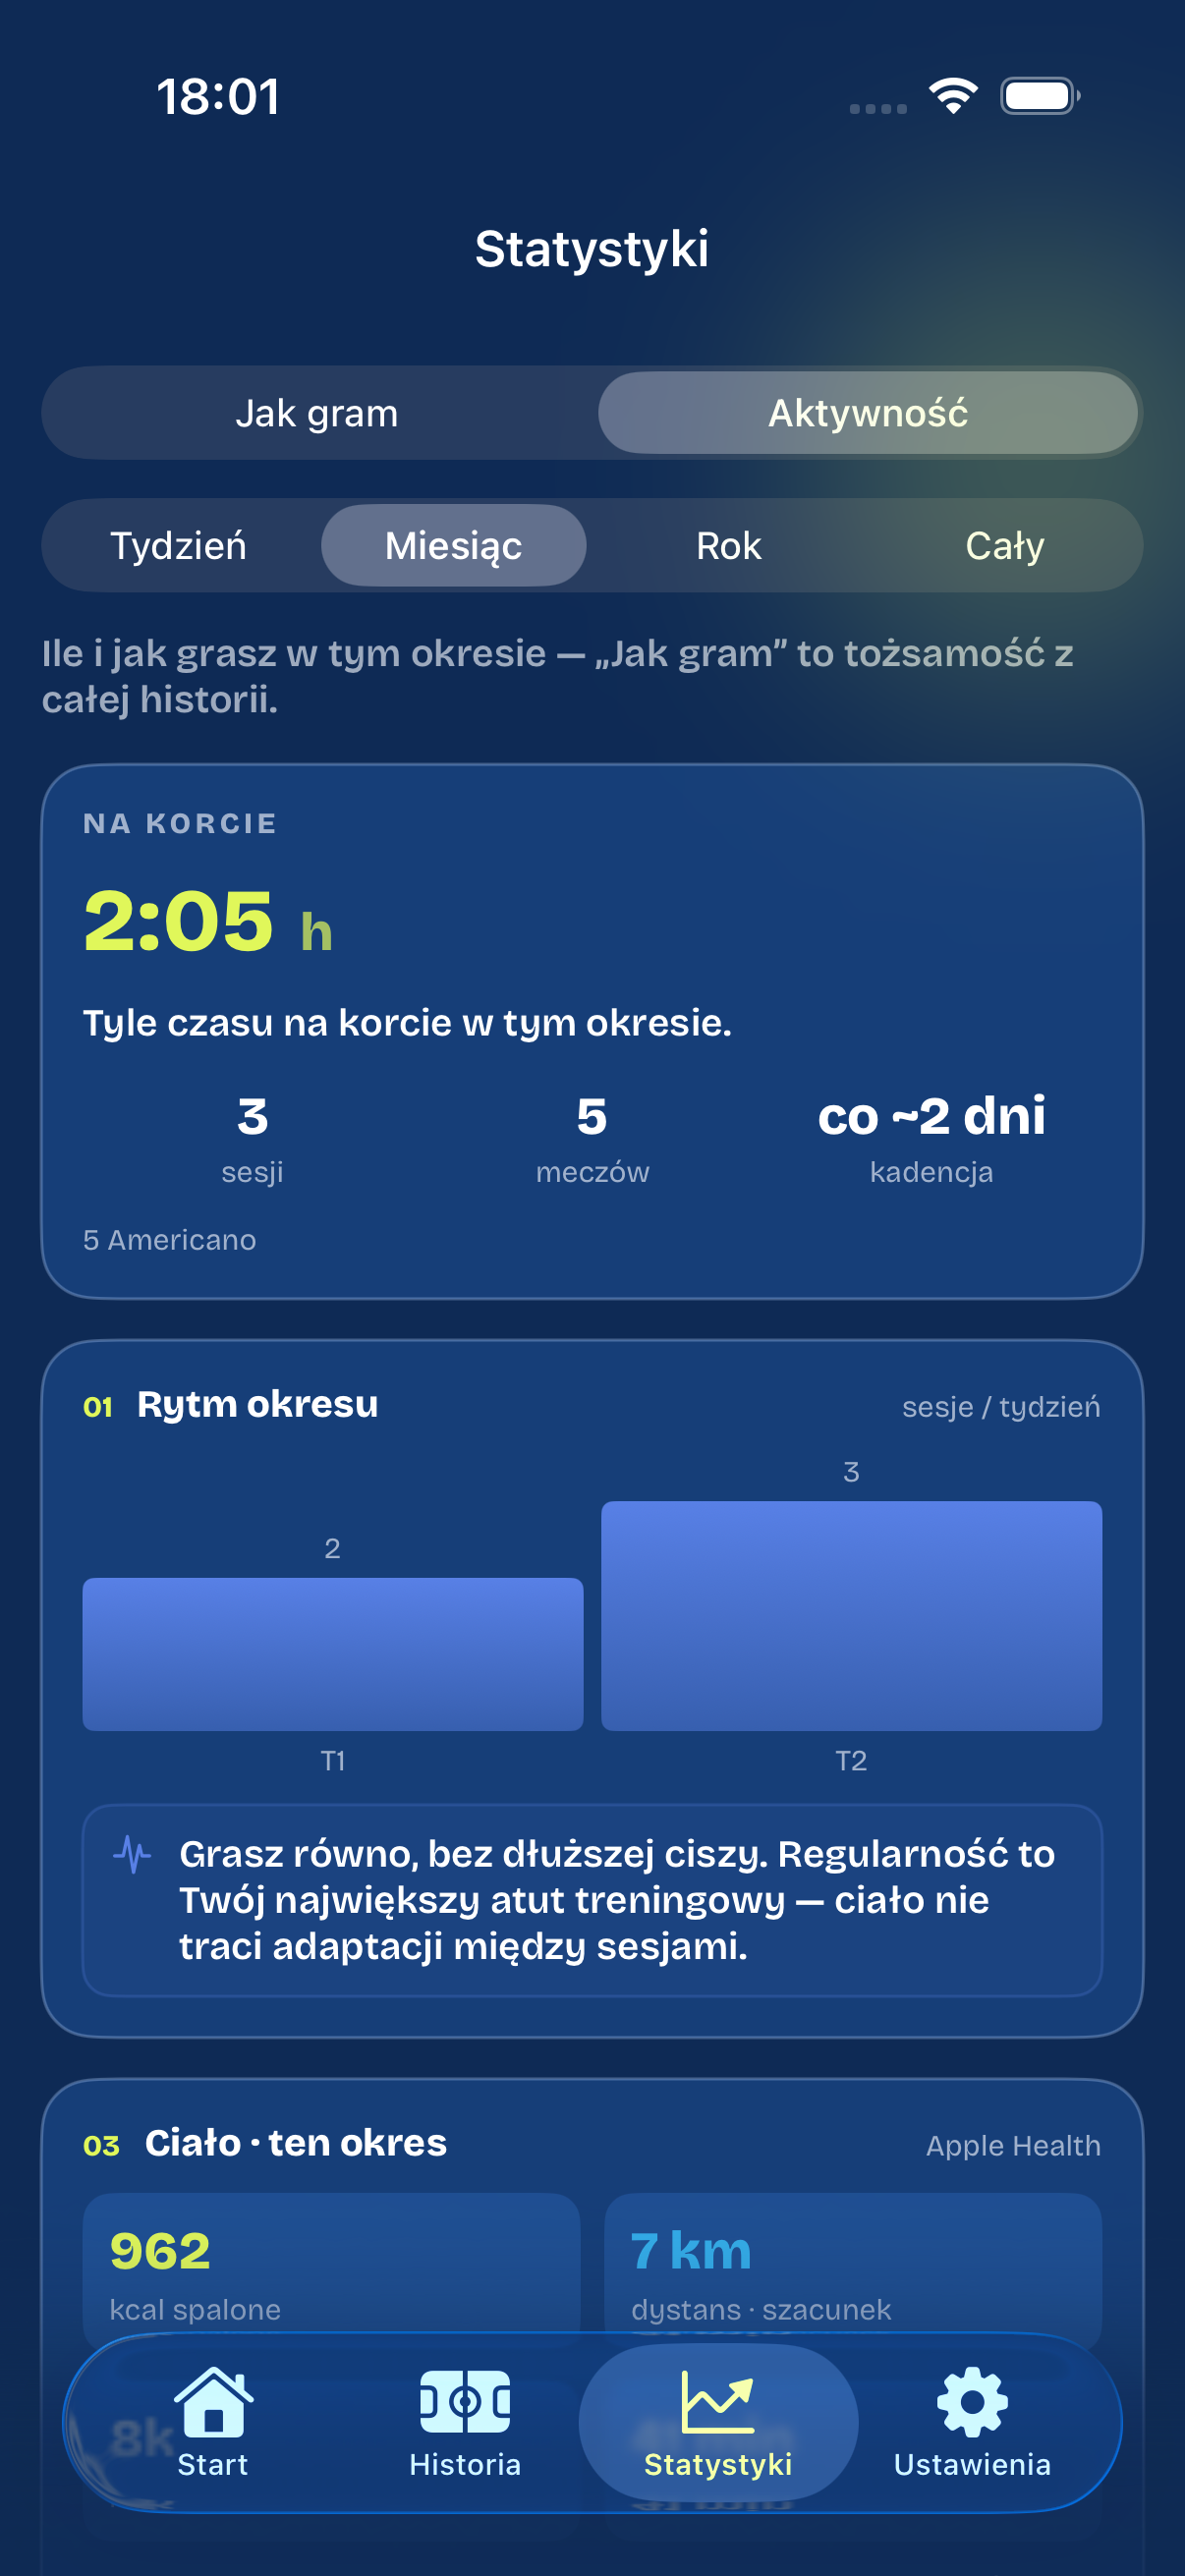
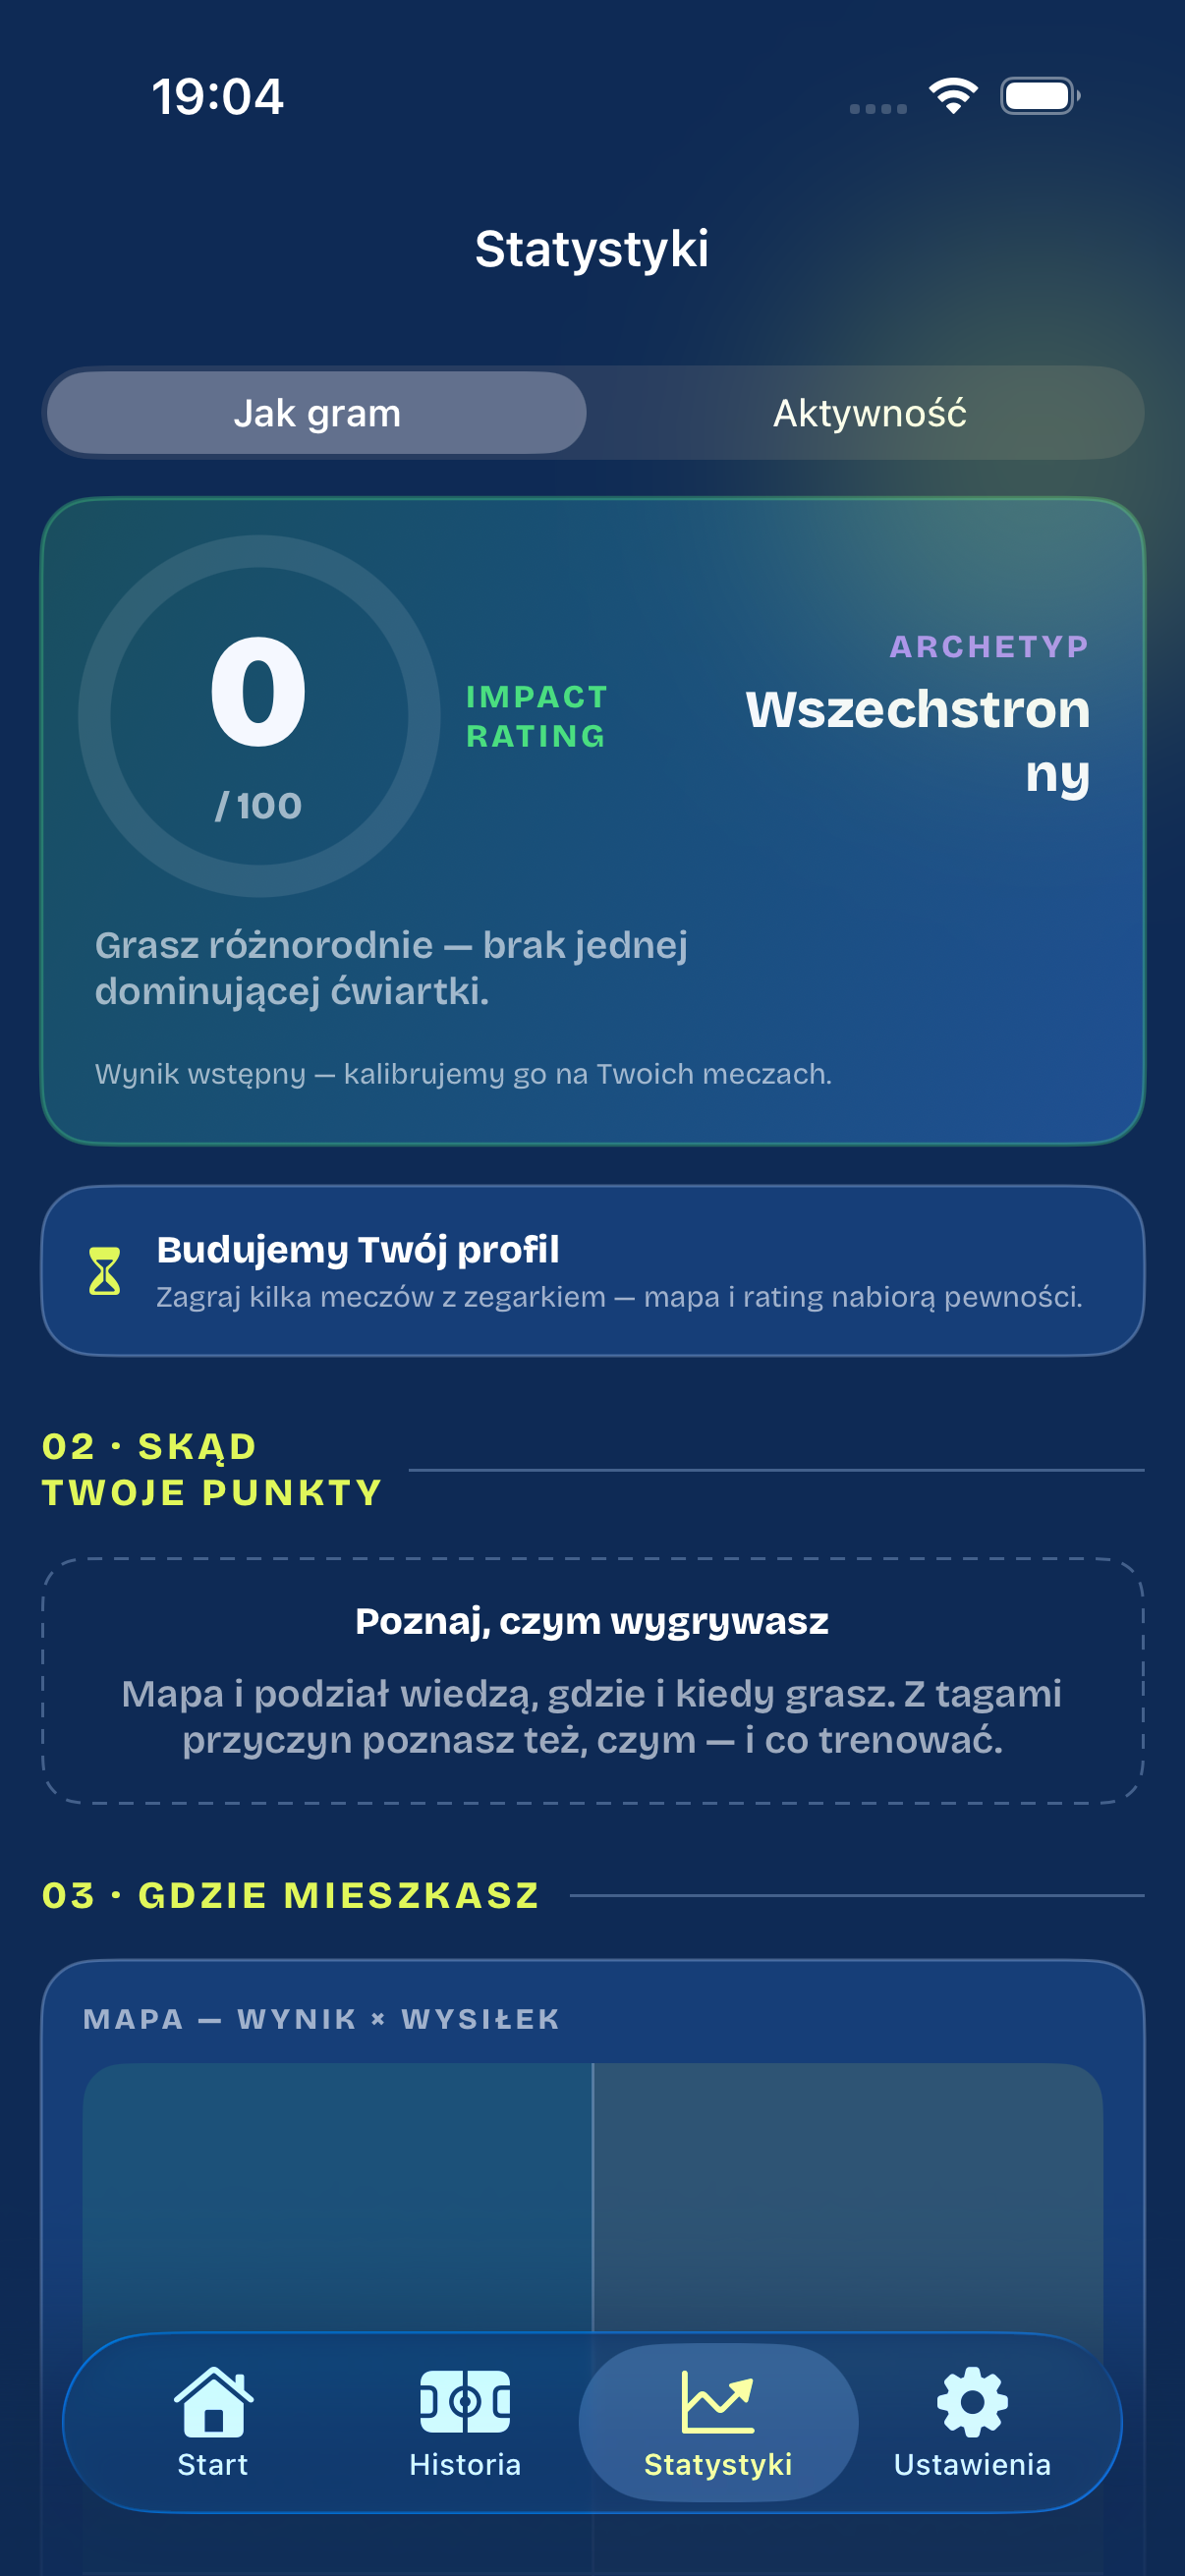
fix(landing): #ja = ekran "Jak gram" (Impact Rating), nie duplikat Aktywności
batch11 06-stats wyszedł identyczny z 09-activity (segment "Aktywność"
persystował) → sekcja #ja pokazywała ten sam ekran co #aktywnosc, gubiąc
Impact Rating i archetyp. Zrzut przełączony na segment "Jak gram":
IMPACT RATING 0/100, ARCHETYP Wszechstronny, MAPA WYNIK×WYSIŁEK.

Rig: ScreenshotTests step 6 klika segment "Jak gram" przed zrzutem (PR #157).

diff --git a/CHANGELOG.md b/CHANGELOG.md
@@ -5,6 +5,10 @@ Format: [Keep a Changelog](https://keepachangelog.com). Wpisy wiążą się ze s
 ## [Unreleased]
 
 ### Fixed
+- **#ja pokazuje „Jak gram" (Impact Rating), nie Aktywność**: batch11 `06-stats` wyszedł
+  identyczny z `09-activity` (oba = zakładka Aktywność) → #ja duplikowało #aktywnosc i gubiło
+  Impact Rating/archetyp. Zrzut przełączony na segment „Jak gram" (IMPACT RATING 0/100, ARCHETYP
+  Wszechstronny, MAPA WYNIK×WYSIŁEK).
 - **Screeny 1.9.0 zgodne z realną produkcją** (feedback Remiego): seed kumulował kilkanaście
   wystartowanych turniejów („NA ŻYWO" ×kilkanaście na Home) → przez to brakowało action cards
   i ekrany nie odpowiadały appce. Zregenerowane z czystego stanu (1 aktywny turniej „Klub Wisła"):